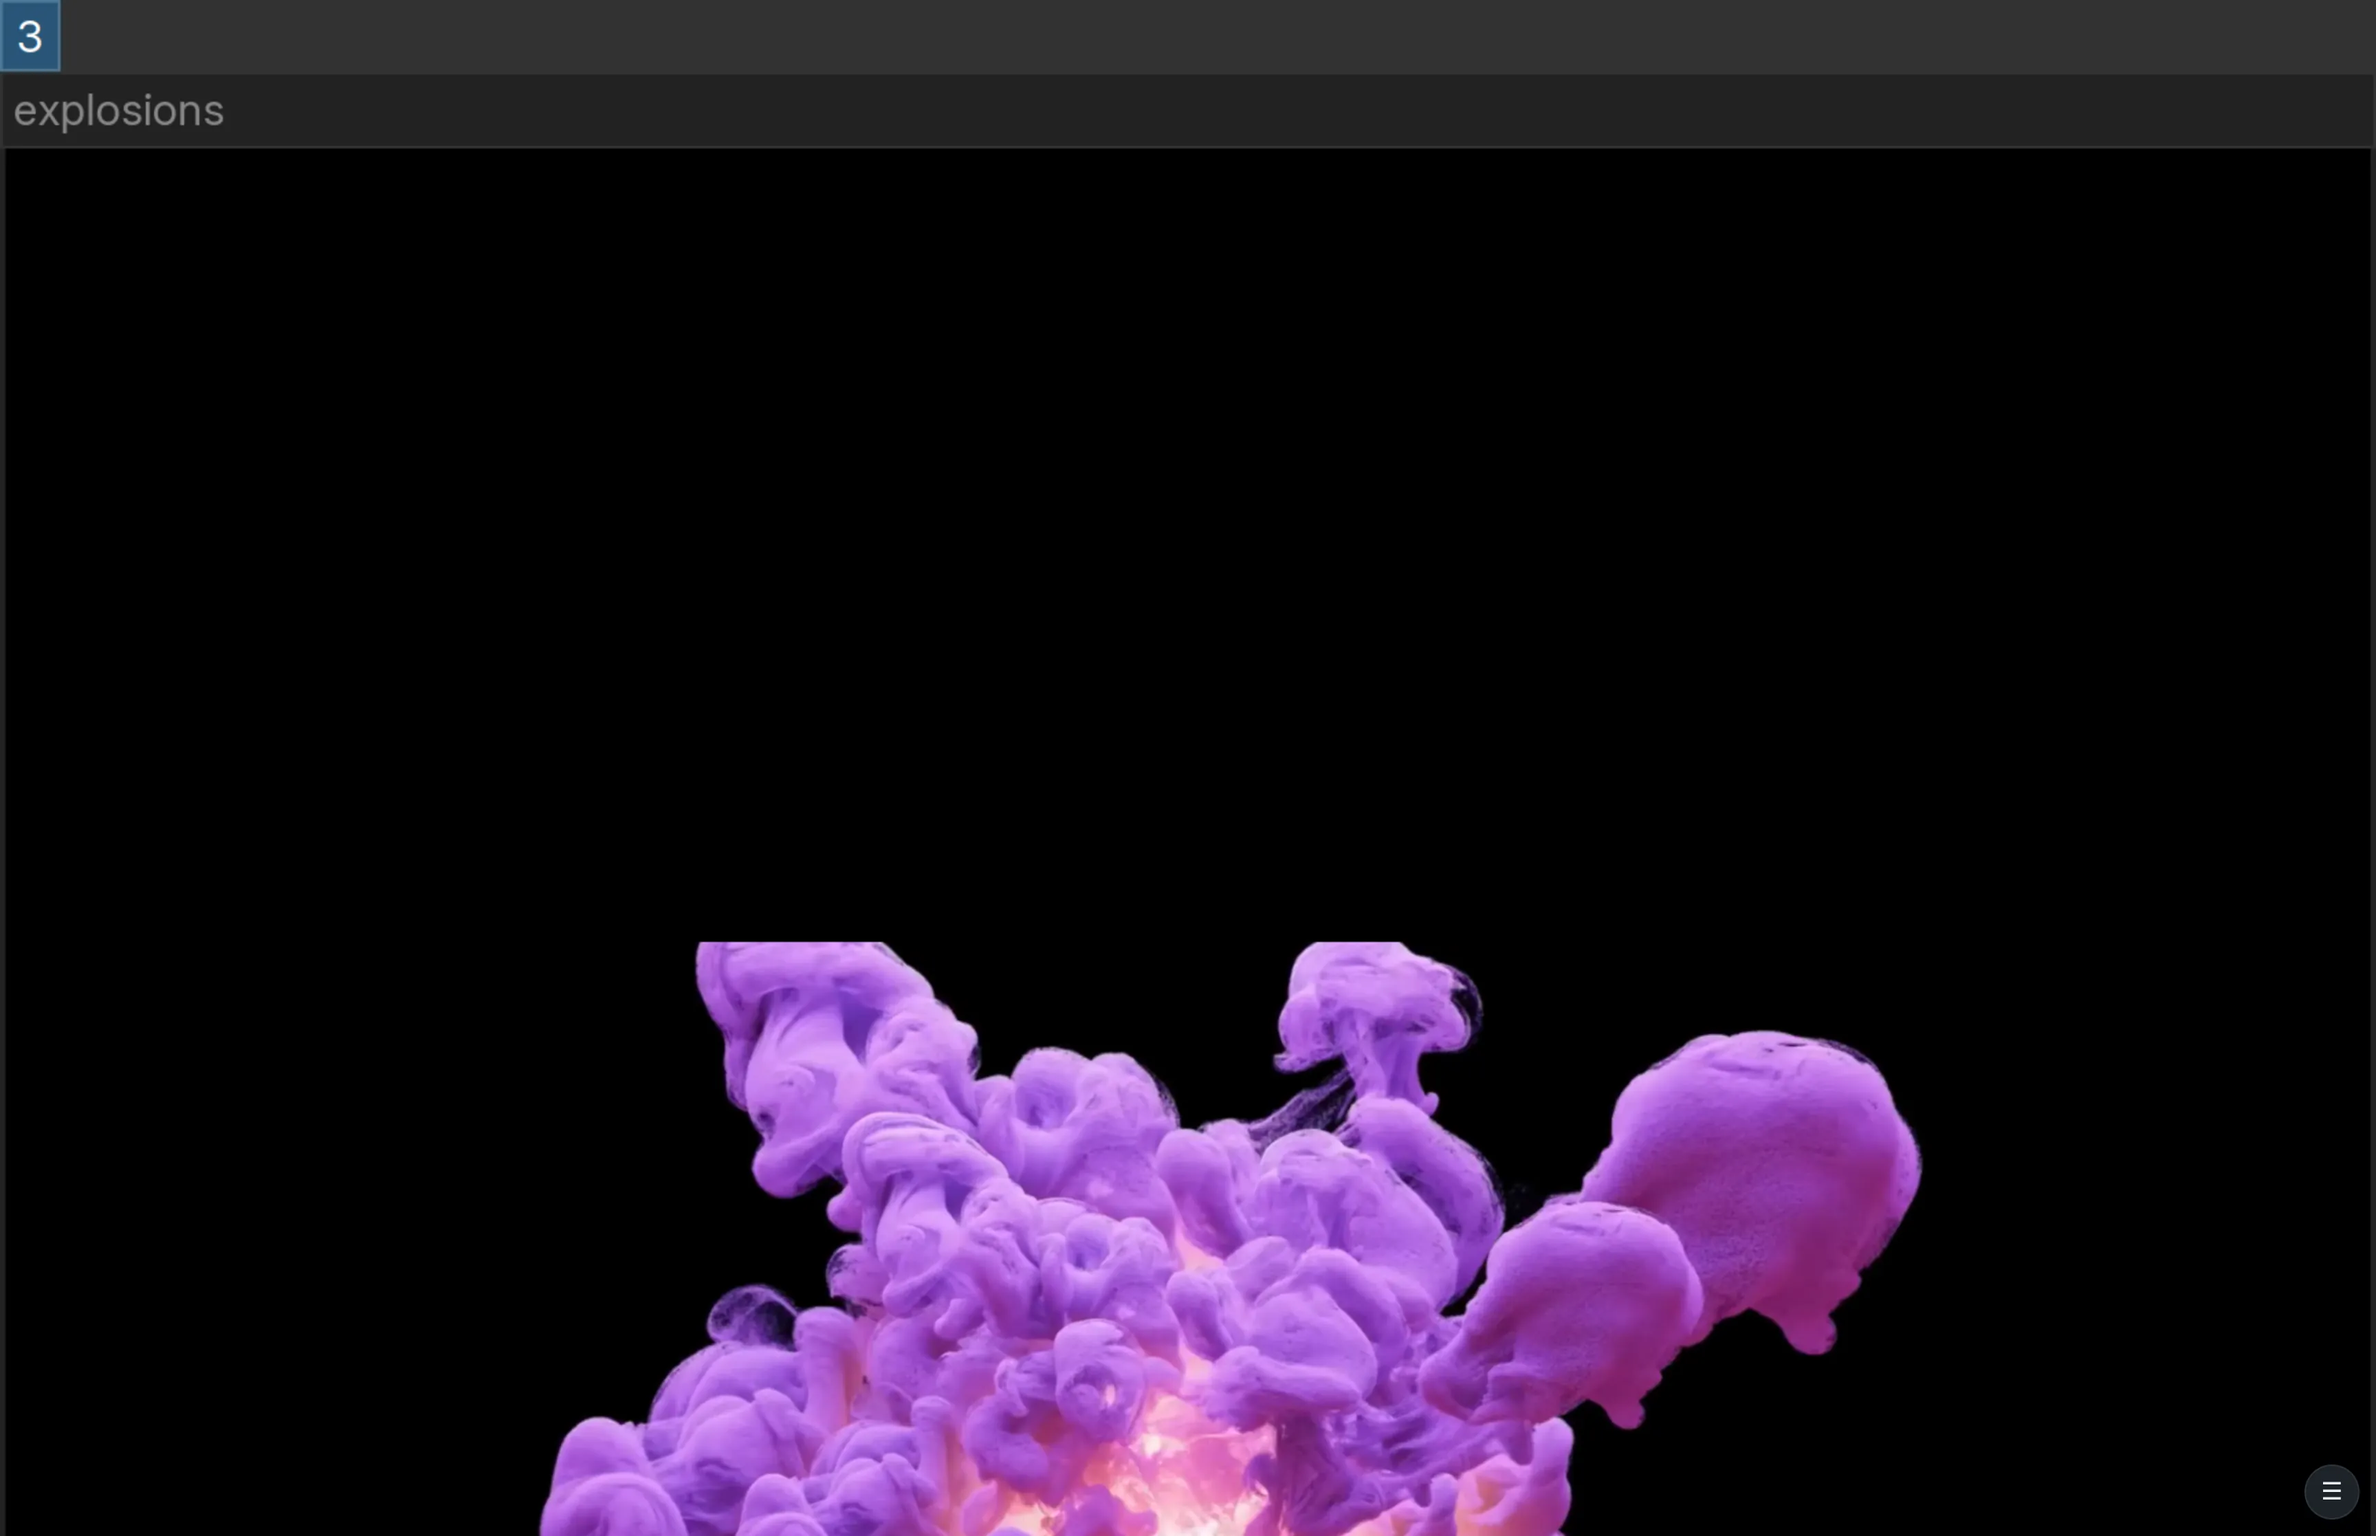
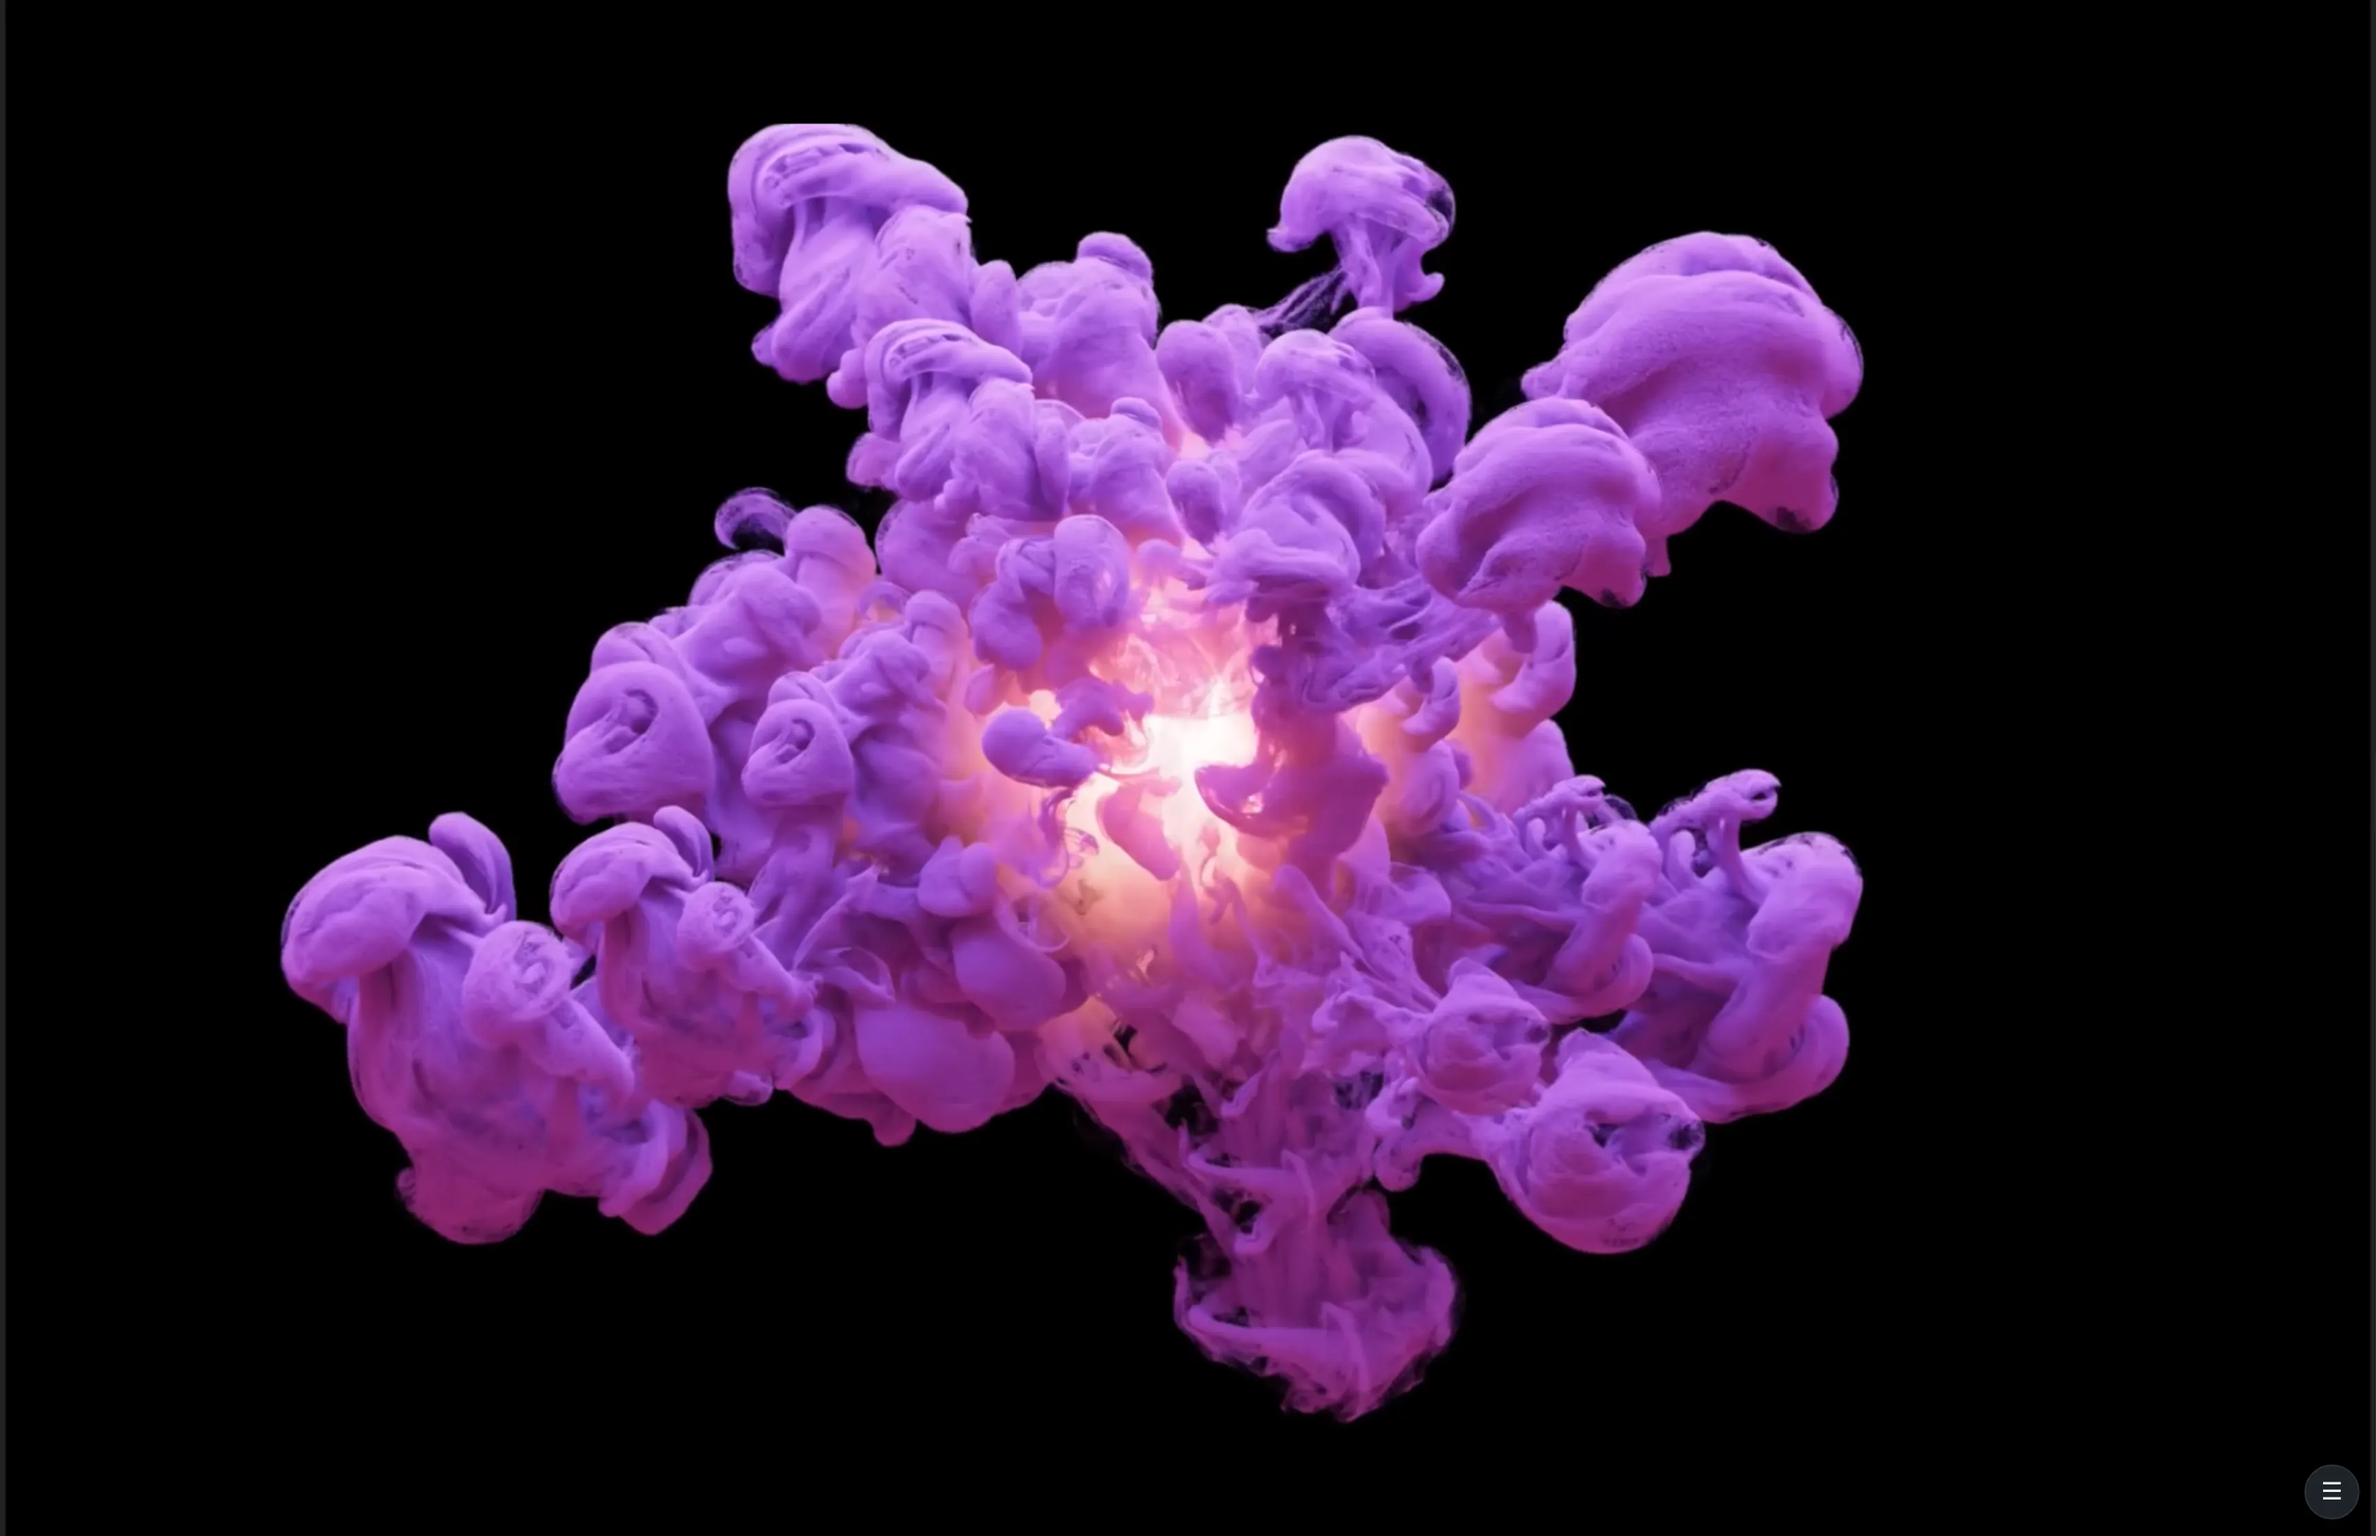
Show the plain VNC still scrolled to the video, whole
The plain VNC view of the sway desktop showed its top-left quarter, which
cut the explosion off at its bottom. It is now scrolled to the video, so
the quarter in the window holds the explosion whole and twice the size,
and the 2x still beside it is retaken from the same paused frame. The
captions say it is scrolled, in each locale.

diff --git a/src/wlshare/zh-TW.tsx b/src/wlshare/zh-TW.tsx
@@ -179,7 +179,7 @@ const text: WlshareText = {
               { name: "wlshare-sway", caption: "設定子類型：縮放比例 2 的輸出以 2x 顯示，完整呈現在視窗中。" },
               {
                 name: "wlshare-plain-vnc",
-                caption: "不設定子類型：同樣的像素以 1x 顯示，尺寸變為兩倍，視窗中只看得到桌面的四分之一。",
+                caption: "不設定子類型：同樣的像素以 1x 顯示，尺寸變為兩倍：捲動到影片處，視窗中只看得到桌面的四分之一。",
               },
             ]}
           />

diff --git a/src/wlshare/zh-CN.tsx b/src/wlshare/zh-CN.tsx
@@ -165,7 +165,7 @@ const text: WlshareText = {
               { name: "wlshare-sway", caption: "设置子类型：缩放为 2 的输出按 2x 显示，完整显示在窗口中。" },
               {
                 name: "wlshare-plain-vnc",
-                caption: "不设置：同样的像素按 1x 显示，尺寸变为两倍，窗口中只能显示桌面的四分之一。",
+                caption: "不设置：同样的像素按 1x 显示，尺寸变为两倍：滚动到视频处，窗口中只能显示桌面的四分之一。",
               },
             ]}
           />

diff --git a/src/guides/wlshare/zh-CN.tsx b/src/guides/wlshare/zh-CN.tsx
@@ -439,7 +439,7 @@ layout = "swayvnc"`}</code>
                 name: "wlshare-plain-vnc",
                 caption: (
                   <>
-                    同一桌面作为普通 VNC，没有 <code>subtype = "wlshare"</code>：其像素按 1x 显示，尺寸变为两倍，窗口中只能显示四分之一。
+                    同一桌面作为普通 VNC，没有 <code>subtype = "wlshare"</code>：其像素按 1x 显示，尺寸变为两倍：滚动到视频处，窗口中只能显示四分之一。
                   </>
                 ),
               },

diff --git a/src/wlshare/en.tsx b/src/wlshare/en.tsx
@@ -187,7 +187,7 @@ const text: WlshareText = {
               { name: "wlshare-sway", caption: "With the subtype: the scale 2 output at 2x, whole in the window." },
               {
                 name: "wlshare-plain-vnc",
-                caption: "Without it: the same pixels at 1x, twice the size, a quarter of the desktop in the window.",
+                caption: "Without it: the same pixels at 1x, twice the size: scrolled to the video, the window holds a quarter of the desktop.",
               },
             ]}
           />

diff --git a/src/guides/wlshare/zh-TW.tsx b/src/guides/wlshare/zh-TW.tsx
@@ -491,7 +491,7 @@ layout = "swayvnc"`}</code>
                 caption: (
                   <>
                     同一個桌面以一般 VNC 顯示，不設定 <code>subtype = "wlshare"</code>：其像素以 1x
-                    顯示，尺寸變為兩倍，視窗中只看得到四分之一。
+                    顯示，尺寸變為兩倍：捲動到影片處，視窗中只看得到四分之一。
                   </>
                 ),
               },

diff --git a/src/guides/wlshare/en.tsx b/src/guides/wlshare/en.tsx
@@ -512,7 +512,7 @@ layout = "swayvnc"`}</code>
                 caption: (
                   <>
                     The same desktop as plain VNC, without <code>subtype = "wlshare"</code>: its pixels at 1x, twice
-                    the size, a quarter of it in the window.
+                    the size: scrolled to the video, the window holds a quarter of it.
                   </>
                 ),
               },
